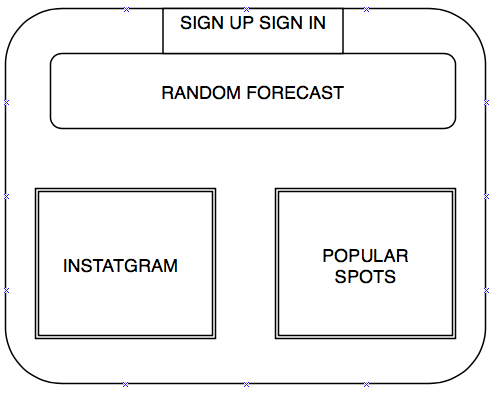
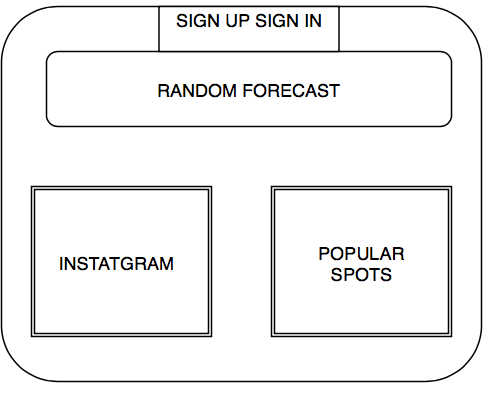
readme

diff --git a/README.md b/README.md
@@ -14,3 +14,7 @@ My web app will act as a surf forcast social network platform. It will (hopefull
 ##WireFrames
 
 ![](/readme images/wireframe1.png)
+![](/readme images/wireframe2.png)
+![](/readme images/wireframe3.png)
+![](/readme images/wireframe4.png)
+![](/readme images/wireframe5.png)
